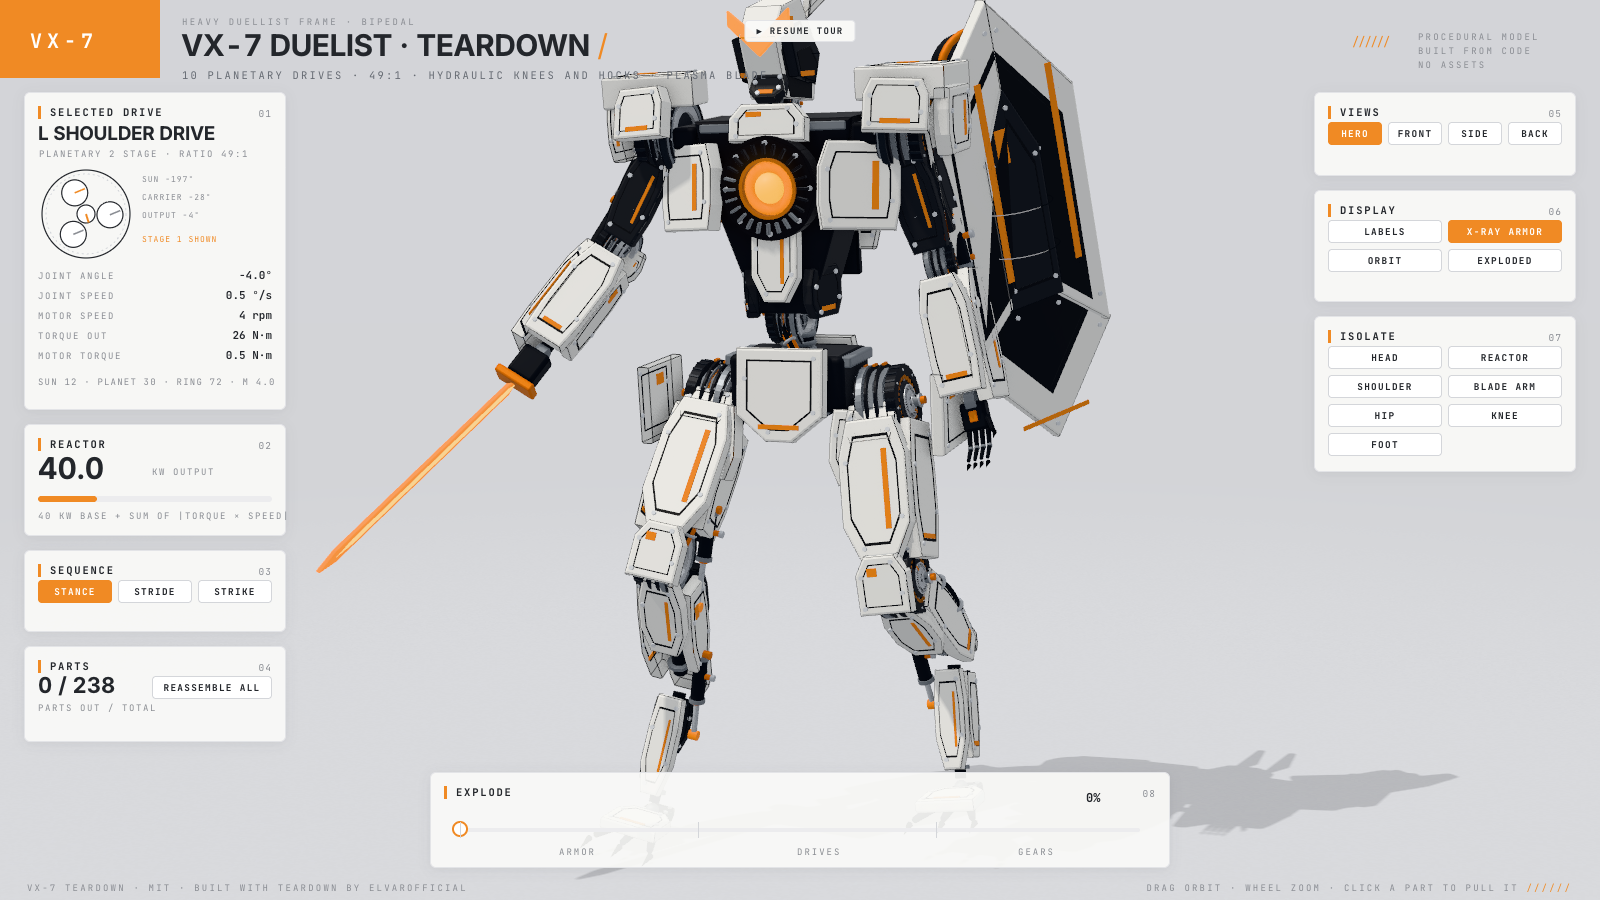
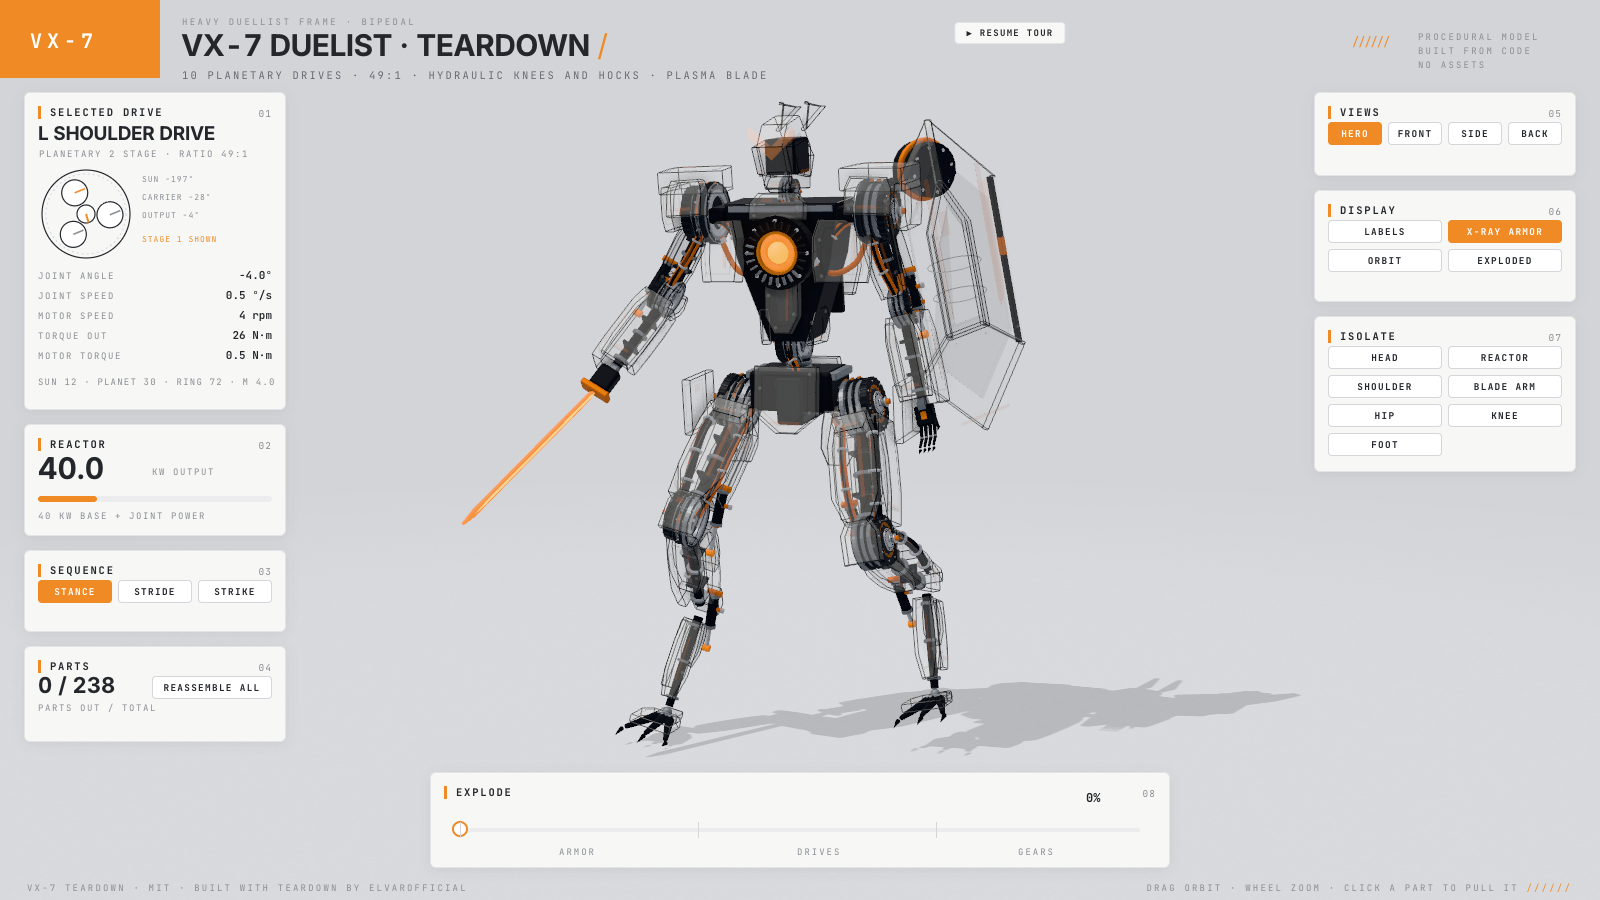
Wedge helmet, leg armor scaled to segments, explode zoom, reassemble clears isolate

Changed region(s): [[0.2812, 0.0, 0.9062, 0.9333], [0.1875, 0.4978, 0.3125, 0.6222], [0.3125, 0.4978, 0.3438, 0.5289]]

diff --git a/vx7-shared/body.js b/vx7-shared/body.js
@@ -88,15 +88,16 @@ export function addBody(C) {
     const T = ['head'];
     const k = frame(N.head, 'skull', 'SKULL FRAME', T, {out: [0, 0.3, -1], dist: 0.4});
     solid(k, new Merge().add(box(0.2, 0.22, 0.26, 0.02), {p: [0, 0.22, -0.02], c: G}).add(cyl(0.05, 0.05, 0.05, 12), {p: [0, 0.05, 0], r: [0, 0, Math.PI / 2], c: COL.steel}));
-    const prof = [[0.16, 0.02], [0.2, 0.26], [0.04, 0.45], [-0.16, 0.41], [-0.25, 0.29], [-0.15, 0.04]];
-    armor(N.head, 'helmet-top', 'HELMET TOP PLATE', prof.map(([x, y]) => [x, y]), 0.15, {p: [0, 0, 0], r: [0, 90, 0]}, {tags: T, trim: 'block', cy: 0.25, out: [0, 1, 0.2], dist: 0.7, bolts: false});
+    hexA(N.head, 'helmet-top', 'HELMET TOP PLATE', 0.24, 0.4, 0.04, [0, 0.4, 0.03], [-60, 0, 0], {tags: T, trim: 'stripe', cy: 0.25, out: [0, 1, 0.3], dist: 0.7}, {c: 0.3, tp: 0.35, bt: 1});
+    hexA(N.head, 'helmet-face', 'HELMET FACE PLATE', 0.22, 0.26, 0.04, [0, 0.22, 0.17], [-12, 0, 0], {tags: T, trim: 'edge', cy: 0.25, out: [0, 0, 1], dist: 0.8}, {c: 0.3, tp: 1, bt: 0.45});
+    hexA(N.head, 'helmet-back', 'HELMET BACK PLATE', 0.22, 0.28, 0.04, [0, 0.24, -0.17], [10, 180, 0], {tags: T, col: G, trim: 'block', cy: 0.25, out: [0, 0.2, -1], dist: 0.7}, {tp: 0.8, bt: 0.8});
     for (const [s, sx] of L2) {
       const cheek = [[0.05, 0.1], [-0.13, 0.13], [-0.2, 0.28], [0.0, 0.31], [0.11, 0.21]].map(([x, y]) => [x * (sx > 0 ? 1 : -1), y]);
       armor(N.head, 'helmet-side-' + s, s + ' HELMET CHEEK', cheek, 0.03, {p: [sx * 0.115, 0, 0], r: [0, sx * 90, 0]}, {tags: T, col: G, trim: 'edge', cy: 0.25, dist: 0.5, bolts: false});
       const fin = [[0, 0], [0.34, 0.12], [0.06, 0.15]].map(([x, y]) => [x * (sx > 0 ? 1 : -1), y]);
-      armor(N.head, 'fin-' + s, s + ' HELMET FIN', fin, 0.012, {p: [sx * 0.085, 0.38, -0.11], r: [0, sx * 90, 0]}, {tags: T, col: COL.white, line: false, bolts: false, cy: 0.25, dist: 0.5});
+      armor(N.head, 'fin-' + s, s + ' HELMET FIN', fin, 0.012, {p: [sx * 0.09, 0.36, -0.1], r: [0, sx * 90, sx * 25]}, {tags: T, col: COL.white, line: false, bolts: false, cy: 0.25, dist: 0.5});
     }
-    const vp = mkPart(N.head, 'visor', 'V VISOR', 'armor', {tags: T, pos: [0, 0.285, 0.232], out: [0, 0.2, 1], dist: 0.6, stage: 1});
+    const vp = mkPart(N.head, 'visor', 'V VISOR', 'armor', {tags: T, pos: [0, 0.27, 0.215], out: [0, 0.2, 1], dist: 0.95, stage: 1});
     addMesh(vp, ext(poly([[-0.14, 0.06], [0, -0.07], [0.14, 0.06], [0.14, 0.12], [0, 0.0], [-0.14, 0.12]]), 0.02, 0.003), 'glow', {args: ['#ff9a2e', 0.85]});
     hexA(N.head, 'chin', 'CHIN GUARD', 0.14, 0.1, 0.03, [0, 0.07, 0.15], [-40, 0, 0], {tags: T, col: G, trim: 'edge', cy: 0.25}, {tp: 0.9, bt: 0.6});
   }
@@ -189,21 +190,25 @@ export function addBody(C) {
     actuator('act-knee-' + s, s + ' KNEE ACTUATOR', th, kn, [-sx * 0.12, -LEG.thigh + LEG.kA, 0], [-sx * 0.12, -LEG.kB, 0], [...T, 'knee'], kn);
     actuator('act-hock-' + s, s + ' HOCK ACTUATOR', kn, hk, [-sx * 0.12, -LEG.shin + LEG.hA, 0], [-sx * 0.12, -LEG.hB, 0], [...T, 'foot'], hk);
     actuator('act-arm-' + s, s + ' ARM PISTON', N['sh' + s], N['el' + s], [sx * 0.1, -ARM.upper + ARM.a, 0.0], [sx * 0.1, -ARM.b, 0], ['arm' + s, s === 'R' ? 'blade' : 'shield'], N['el' + s]);
-    // armor
-    hexA(th, 'thigh-front-' + s, s + ' THIGH PLATE', 0.3, 0.62, 0.05, [0, -0.4, 0.15], [0, 0, 0], {tags: T, trim: 'stripe'}, {c: 0.25, tp: 0.7, bt: 0.5});
-    hexA(th, 'thigh-outer-' + s, s + ' THIGH OUTER', 0.28, 0.6, 0.05, [sx * 0.14, -0.4, 0], [0, sx * 90, 0], {tags: T, trim: 'edge'}, {tp: 0.8, bt: 0.7});
-    hexA(th, 'thigh-inner-' + s, s + ' THIGH INNER', 0.22, 0.5, 0.04, [-sx * 0.12, -0.4, 0], [0, -sx * 90, 0], {tags: T, trim: 'block'}, {tp: 0.8, bt: 0.7});
-    hexA(th, 'thigh-rear-' + s, s + ' THIGH REAR', 0.2, 0.5, 0.04, [0, -0.4, -0.12], [0, 180, 0], {tags: T, col: G, trim: 'stripe'}, {tp: 0.8, bt: 0.8});
-    hexA(th, 'thigh-cap-' + s, s + ' THIGH CAP', 0.22, 0.16, 0.045, [0, -0.1, 0.14], [-15, 0, 0], {tags: [...T, 'hip'], trim: 'edge'}, {c: 0.35, tp: 0.9, bt: 0.8});
+    // armor (sized for the unit-length legs, stretched to the real segment lengths)
+    const kt = LEG.thigh / 0.8;
+    const ks = LEG.shin / 0.78;
+    const km = LEG.meta / 0.62;
+    const hx = (par, k, id, name, w, h, d, p, r, o, shape) => hexA(par, id, name, w, h * k, d, [p[0], p[1] * k, p[2]], r, o, shape);
+    hx(th, kt, 'thigh-front-' + s, s + ' THIGH PLATE', 0.3, 0.62, 0.05, [0, -0.4, 0.15], [0, 0, 0], {tags: T, trim: 'stripe'}, {c: 0.25, tp: 0.7, bt: 0.5});
+    hx(th, kt, 'thigh-outer-' + s, s + ' THIGH OUTER', 0.28, 0.6, 0.05, [sx * 0.14, -0.4, 0], [0, sx * 90, 0], {tags: T, trim: 'edge'}, {tp: 0.8, bt: 0.7});
+    hx(th, kt, 'thigh-inner-' + s, s + ' THIGH INNER', 0.22, 0.5, 0.04, [-sx * 0.12, -0.4, 0], [0, -sx * 90, 0], {tags: T, trim: 'block'}, {tp: 0.8, bt: 0.7});
+    hx(th, kt, 'thigh-rear-' + s, s + ' THIGH REAR', 0.2, 0.5, 0.04, [0, -0.4, -0.12], [0, 180, 0], {tags: T, col: G, trim: 'stripe'}, {tp: 0.8, bt: 0.8});
+    hx(th, kt, 'thigh-cap-' + s, s + ' THIGH CAP', 0.22, 0.16, 0.045, [0, -0.1, 0.14], [-15, 0, 0], {tags: [...T, 'hip'], trim: 'edge'}, {c: 0.35, tp: 0.9, bt: 0.8});
     hexA(th, 'knee-guard-' + s, s + ' KNEE GUARD', 0.22, 0.24, 0.05, [0, -LEG.thigh - 0.02, 0.14], [10, 0, 0], {tags: [...T, 'knee'], trim: 'block'}, {c: 0.3, tp: 0.6, bt: 1});
-    hexA(kn, 'shin-front-' + s, s + ' SHIN PLATE', 0.2, 0.4, 0.045, [0, -0.26, 0.11], [0, 0, 0], {tags: T, trim: 'stripe'}, {tp: 0.7, bt: 0.6});
-    hexA(kn, 'shin-outer-' + s, s + ' SHIN OUTER', 0.22, 0.6, 0.045, [sx * 0.1, -0.4, 0], [0, sx * 90, 0], {tags: T, trim: 'edge'}, {tp: 0.8, bt: 0.5});
-    hexA(kn, 'shin-inner-' + s, s + ' SHIN INNER', 0.16, 0.46, 0.04, [-sx * 0.1, -0.38, 0], [0, -sx * 90, 0], {tags: T, trim: 'block'}, {tp: 0.8, bt: 0.6});
-    hexA(kn, 'calf-' + s, s + ' CALF PLATE', 0.2, 0.34, 0.045, [0, -0.3, -0.11], [0, 180, 0], {tags: T, col: G, trim: 'stripe'}, {tp: 0.8, bt: 0.8});
+    hx(kn, ks, 'shin-front-' + s, s + ' SHIN PLATE', 0.2, 0.4, 0.045, [0, -0.26, 0.11], [0, 0, 0], {tags: T, trim: 'stripe'}, {tp: 0.7, bt: 0.6});
+    hx(kn, ks, 'shin-outer-' + s, s + ' SHIN OUTER', 0.22, 0.6, 0.045, [sx * 0.1, -0.4, 0], [0, sx * 90, 0], {tags: T, trim: 'edge'}, {tp: 0.8, bt: 0.5});
+    hx(kn, ks, 'shin-inner-' + s, s + ' SHIN INNER', 0.16, 0.46, 0.04, [-sx * 0.1, -0.38, 0], [0, -sx * 90, 0], {tags: T, trim: 'block'}, {tp: 0.8, bt: 0.6});
+    hx(kn, ks, 'calf-' + s, s + ' CALF PLATE', 0.2, 0.34, 0.045, [0, -0.3, -0.11], [0, 180, 0], {tags: T, col: G, trim: 'stripe'}, {tp: 0.8, bt: 0.8});
     hexA(kn, 'hock-guard-' + s, s + ' HOCK GUARD', 0.18, 0.2, 0.045, [0, -LEG.shin + 0.02, -0.1], [0, 180, 0], {tags: [...T, 'foot'], trim: 'block'}, {c: 0.3, tp: 1, bt: 0.8});
-    hexA(hk, 'meta-front-' + s, s + ' METATARSAL PLATE', 0.13, 0.45, 0.04, [0, -0.3, 0.075], [0, 0, 0], {tags: [...T, 'foot'], trim: 'stripe'}, {tp: 0.8, bt: 0.5});
-    hexA(hk, 'meta-side-' + s, s + ' METATARSAL SIDE', 0.12, 0.38, 0.035, [sx * 0.06, -0.28, 0], [0, sx * 90, 0], {tags: [...T, 'foot'], trim: 'edge'}, {tp: 0.8, bt: 0.6});
-    hexA(hk, 'spur-plate-' + s, s + ' SPUR PLATE', 0.1, 0.24, 0.035, [0, -0.2, -0.065], [0, 180, 0], {tags: [...T, 'foot'], col: G}, {tp: 0.8, bt: 0.5});
+    hx(hk, km, 'meta-front-' + s, s + ' METATARSAL PLATE', 0.13, 0.45, 0.04, [0, -0.3, 0.075], [0, 0, 0], {tags: [...T, 'foot'], trim: 'stripe'}, {tp: 0.8, bt: 0.5});
+    hx(hk, km, 'meta-side-' + s, s + ' METATARSAL SIDE', 0.12, 0.38, 0.035, [sx * 0.06, -0.28, 0], [0, sx * 90, 0], {tags: [...T, 'foot'], trim: 'edge'}, {tp: 0.8, bt: 0.6});
+    hx(hk, km, 'spur-plate-' + s, s + ' SPUR PLATE', 0.1, 0.24, 0.035, [0, -0.2, -0.065], [0, 180, 0], {tags: [...T, 'foot'], col: G}, {tp: 0.8, bt: 0.5});
     hexA(ft, 'foot-top-' + s, s + ' FOOT COVER', 0.26, 0.22, 0.035, [0, -0.02, 0.14], [-90, 0, 0], {tags: [...T, 'foot'], trim: 'edge', cy: 0}, {c: 0.3, tp: 0.6, bt: 1});
     hexA(ft, 'heel-' + s, s + ' HEEL PLATE', 0.12, 0.12, 0.03, [0, -0.04, -0.07], [-90, 0, 0], {tags: [...T, 'foot'], col: G, cy: 0}, {tp: 0.8, bt: 1});
     // three claw toes and a rear spur, with ground-contact markers on the tips

diff --git a/vx7-shared/live.js b/vx7-shared/live.js
@@ -15,10 +15,10 @@ const clamp = (x, a = 0, b = 1) => Math.min(b, Math.max(a, x));
 const sm = (x) => (x = clamp(x)) * x * (3 - 2 * x);
 const wrap = (d) => ((((d + 180) % 360) + 360) % 360) - 180;
 const VIEWS3 = {
-  hero: {tx: 0, ty: 1.9, tz: 0, az: 22, el: 6, d: 8.4},
-  front: {tx: 0, ty: 1.9, tz: 0, az: 0, el: 4, d: 8.4},
-  side: {tx: 0, ty: 1.9, tz: 0, az: 90, el: 4, d: 8.4},
-  back: {tx: 0, ty: 1.9, tz: 0, az: 180, el: 4, d: 8.4},
+  hero: {tx: 0, ty: 1.9, tz: 0, az: 22, el: 6, d: 11.6},
+  front: {tx: 0, ty: 1.9, tz: 0, az: 0, el: 4, d: 11.6},
+  side: {tx: 0, ty: 1.9, tz: 0, az: 90, el: 4, d: 11.6},
+  back: {tx: 0, ty: 1.9, tz: 0, az: 180, el: 4, d: 11.6},
 };
 // isolate specs: which parts stay solid, where the camera flies, how close
 const ISO = {
@@ -39,7 +39,7 @@ const LABELS = [
 
 export function runLive() {
   const style = document.createElement('style');
-  style.textContent = `html,body{margin:0;background:#d9dadd;overflow:hidden}#app{position:absolute;left:0;top:0;width:${W}px;height:${H}px;transform-origin:0 0}#gl{touch-action:none;cursor:grab;position:absolute;left:0;top:0;width:${W}px;height:${H}px}#gl.drag{cursor:grabbing}.tourchip{position:absolute;left:800px;top:20px;transform:translateX(-50%);display:flex;align-items:center;gap:7px;height:22px;padding:0 11px;border:1px solid #e3e4e7;border-radius:4px;background:rgba(250,250,248,.95);color:#23262b;font:700 9px 'JetBrains Mono',monospace;letter-spacing:1.3px;white-space:nowrap;cursor:pointer;pointer-events:auto}.tourchip i{display:block;width:6px;height:6px;border-radius:50%;background:#f08a24}.tourchip.on i{animation:blink 1.2s steps(2) infinite}@keyframes blink{50%{opacity:.15}}`;
+  style.textContent = `html,body{margin:0;background:#d9dadd;overflow:hidden}#app{position:absolute;left:0;top:0;width:${W}px;height:${H}px;transform-origin:0 0}#gl{touch-action:none;cursor:grab;position:absolute;left:0;top:0;width:${W}px;height:${H}px}#gl.drag{cursor:grabbing}.tourchip{position:absolute;left:1010px;top:22px;transform:translateX(-50%);display:flex;align-items:center;gap:7px;height:22px;padding:0 11px;border:1px solid #e3e4e7;border-radius:4px;background:rgba(250,250,248,.95);color:#23262b;font:700 9px 'JetBrains Mono',monospace;letter-spacing:1.3px;white-space:nowrap;cursor:pointer;pointer-events:auto}.tourchip i{display:block;width:6px;height:6px;border-radius:50%;background:#f08a24}.tourchip.on i{animation:blink 1.2s steps(2) infinite}@keyframes blink{50%{opacity:.15}}`;
   document.head.appendChild(style);
   const app = document.getElementById('app');
   const canvas = document.createElement('canvas');
@@ -82,7 +82,7 @@ export function runLive() {
     const v = {...VIEWS3[S.view]};
     v.az += off.az + (disp.orbit ? 14 * (S.T - (S.orbit0 ?? 0)) : 0);
     v.el = clamp(v.el + off.el, -20, 80);
-    v.d *= off.k * (1 + 0.55 * sm(S.k));
+    v.d *= off.k * (1 + 0.42 * sm(S.k));
     if (S.iso) {
       const f = ISO[S.iso];
       const p = mech.worldPos(f.focus);
@@ -148,8 +148,9 @@ export function runLive() {
         if (snap) p.raw = p.pull = 0;
       }
       S.kT = 0;
+      S.iso = null;
       disp.exploded = 0;
-      if (snap) S.k = 0;
+      if (snap) S.k = S.isoE = 0;
     },
   };
   const press = (key) => {

diff --git a/vx7-shared/console.js b/vx7-shared/console.js
@@ -85,7 +85,7 @@ export function createConsole(app, total) {
   add(`<div class="sm" style="left:152px;top:466px">KW OUTPUT</div>`);
   add(`<div style="position:absolute;left:38px;top:496px;width:234px;height:6px;background:#ececee;border-radius:3px"></div>`);
   const kwB = add(`<div style="position:absolute;left:38px;top:496px;height:6px;background:${C.or};border-radius:3px"></div>`);
-  add(`<div class="sm" style="left:38px;top:510px">40 KW BASE + SUM OF |TORQUE × SPEED|</div>`);
+  add(`<div class="sm" style="left:38px;top:510px">40 KW BASE + JOINT POWER</div>`);
   // 03 sequence
   panel(24, 550, 262, 82, 'SEQUENCE', '03');
   row(SEQS, Object.fromEntries(SEQS.map((s) => [s, s])), 38, 580, 234, 'seq-', 3);

diff --git a/vx7-shared/kin.js b/vx7-shared/kin.js
@@ -35,7 +35,7 @@ export const BASE_KW = 40;
 export const ACT = {bore: 0.05, rod: 0.028, stroke: 0.18};
 export const actLen = (a, b, gamma) => Math.sqrt(a * a + b * b - 2 * a * b * Math.cos(gamma));
 // leg: lengths, neutral bends (deg). Forward-positive angles throughout.
-export const LEG = {thigh: 0.8, shin: 0.78, meta: 0.62, kneeBend: 47, hockBend: 40, thighLean: 22, metaWorld: 14, abd: 9, kA: 0.26, kB: 0.26, hA: 0.22, hB: 0.22};
+export const LEG = {thigh: 0.88, shin: 0.88, meta: 0.7, kneeBend: 64, hockBend: 54, thighLean: 30, metaWorld: 14, abd: 13, kA: 0.26, kB: 0.26, hA: 0.22, hB: 0.22};
 export const ARM = {upper: 0.62, fore: 0.62, a: 0.2, b: 0.2};
 
 // ---- sequences

diff --git a/vx7-shared/mech.js b/vx7-shared/mech.js
@@ -127,6 +127,7 @@ function core() {
   }
   const useMat = (p, kind, ...args) => {
     const m = MATS[kind](...args);
+    m.transparent = true; // always blended at alpha 1: toggling it would recompile the shader
     p.mats.push({m, base: m.opacity, e0: m.emissive ? m.emissiveIntensity : 0});
     return m;
   };
@@ -467,7 +468,6 @@ export function buildMech() {
     p._k = key;
     for (const {m, base, e0} of p.mats) {
       m.opacity = base * a;
-      m.transparent = a < 0.999 || base < 1;
       m.depthWrite = a > 0.5;
       if (m.emissive) {
         if (e0 > 0) m.emissiveIntensity = e0;
